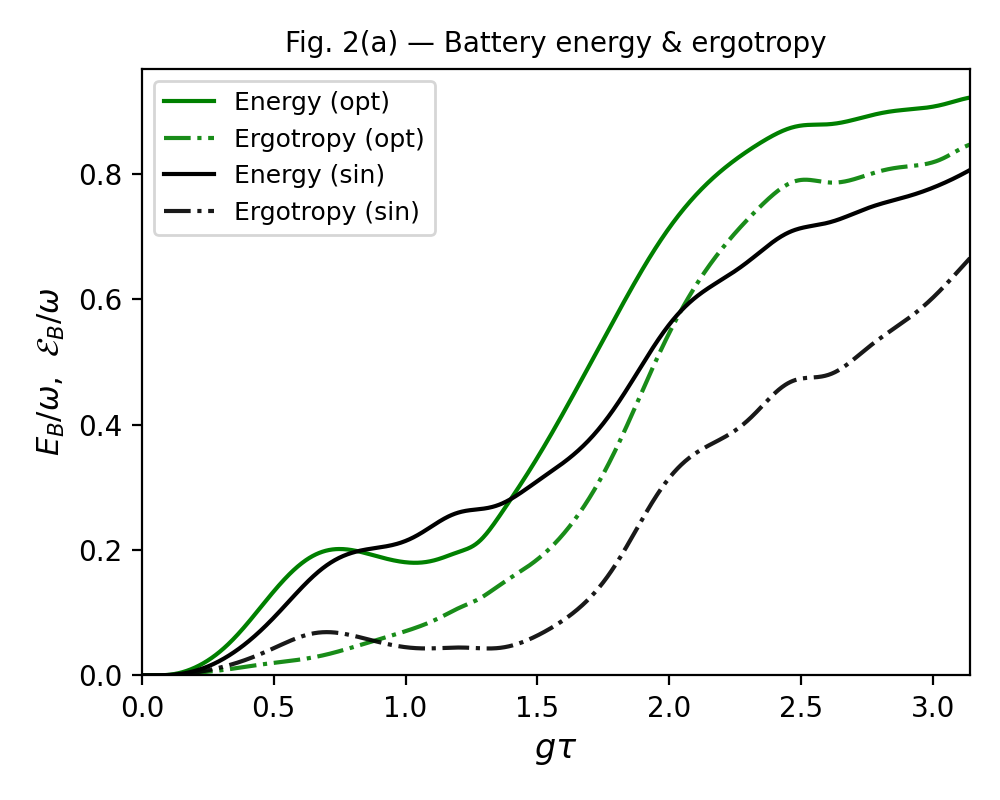
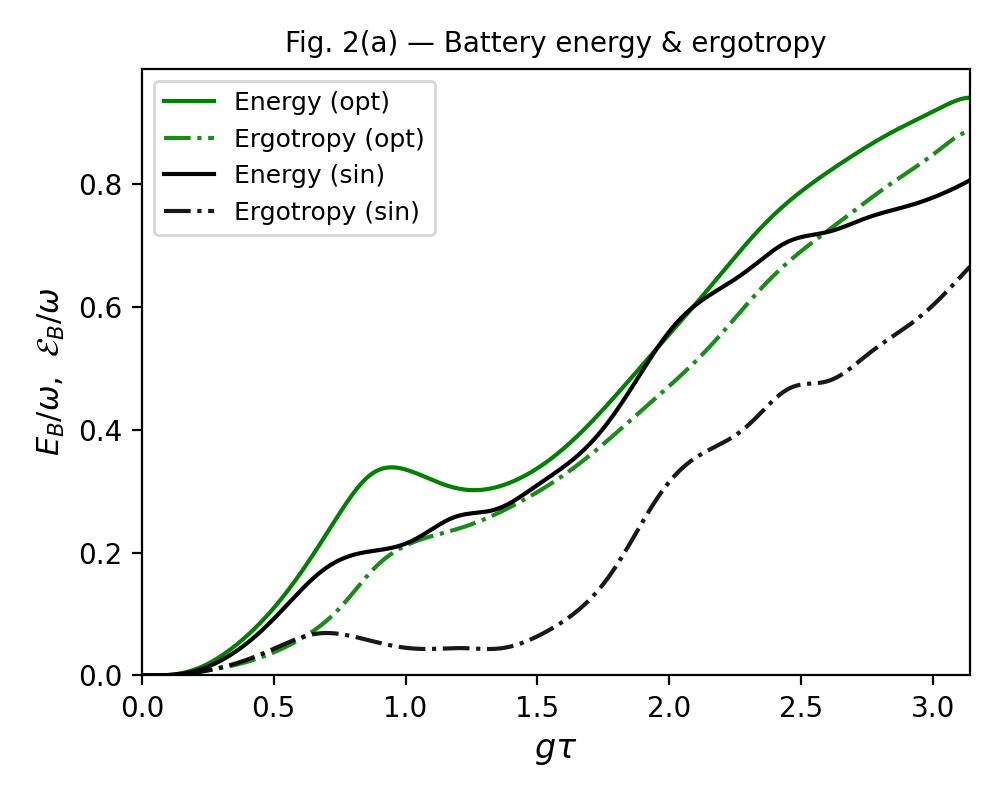
feat: modified quantum control code

diff --git a/quantum_battery_control.py b/quantum_battery_control.py
@@ -19,8 +19,8 @@ gamma    = 0.05 * omega   # dissipation rate (charger only)
 mu       = 0.5  * omega   # coupling to laser field
 Nb_T     = 0.0            # zero temperature
 kappa    = 0.5            # initial guess amplitude (eq. 9)
-lambda_a = 10.0           # Appendix D Fig.5: lambda~9.9 gives W_opt~6 with ~1300 steps
-N_iter   = 1500           # Appendix D: ~1300-1500 steps needed at lambda~10
+lambda_a = 5.0            # best result: lambda=5, 500 iterations
+N_iter   = 500            # best result iteration count
 
 tau   = np.pi / g         # final time: maximises sinusoidal charging
 N_t   = 1001
